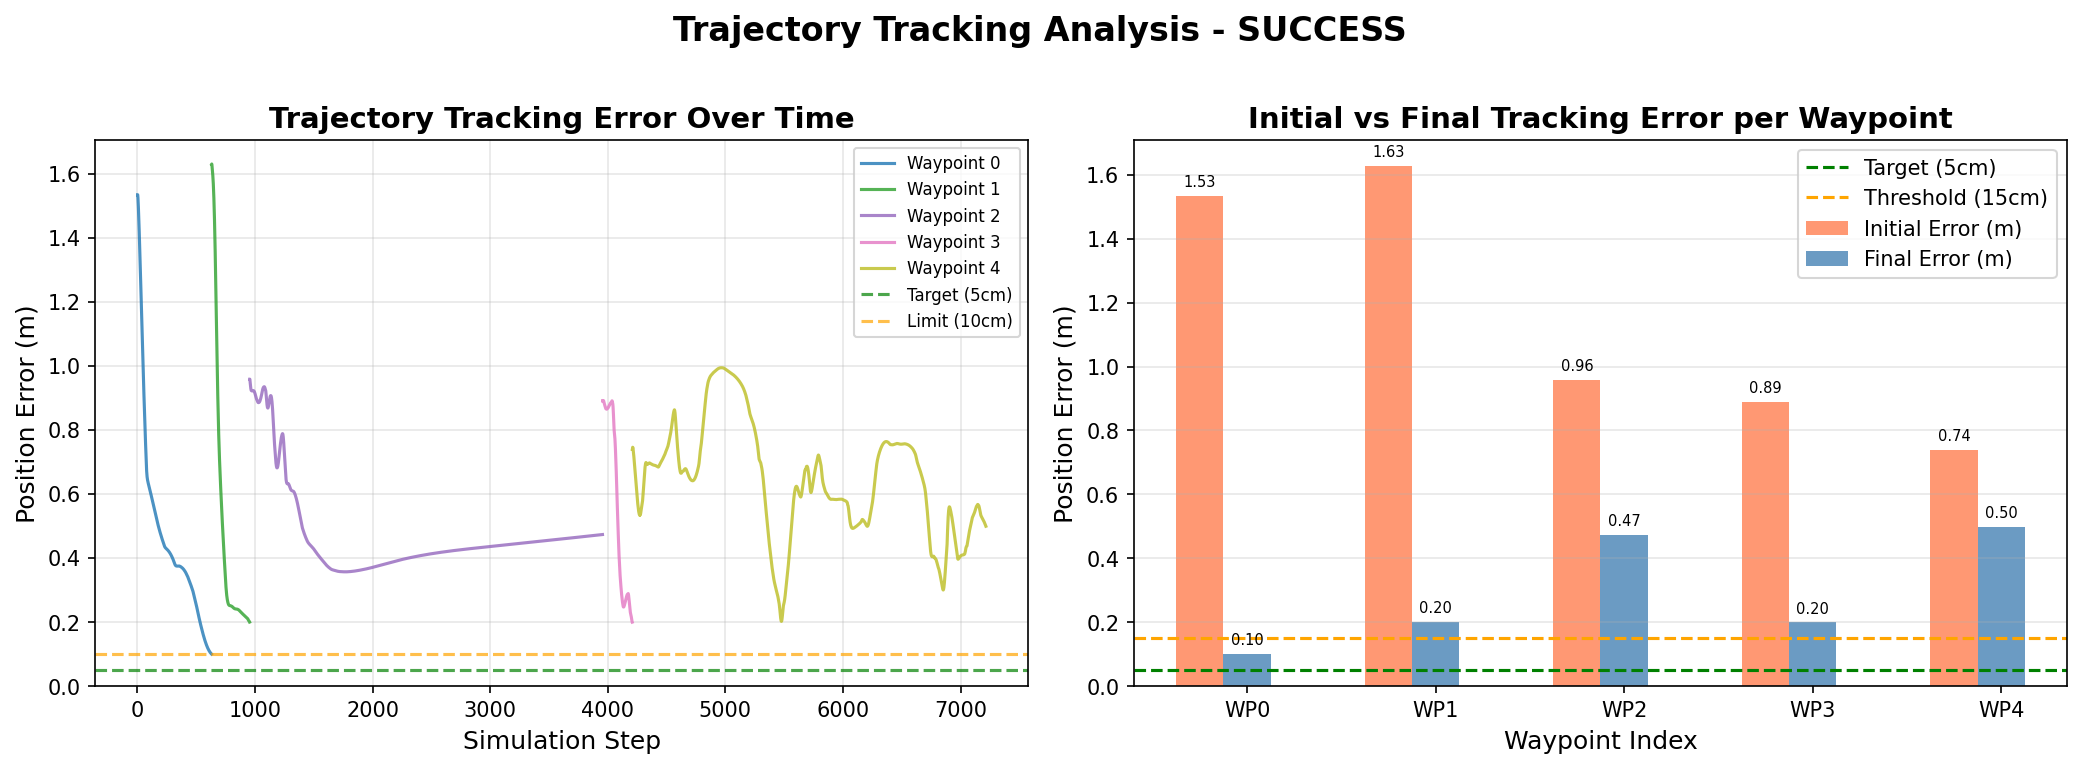
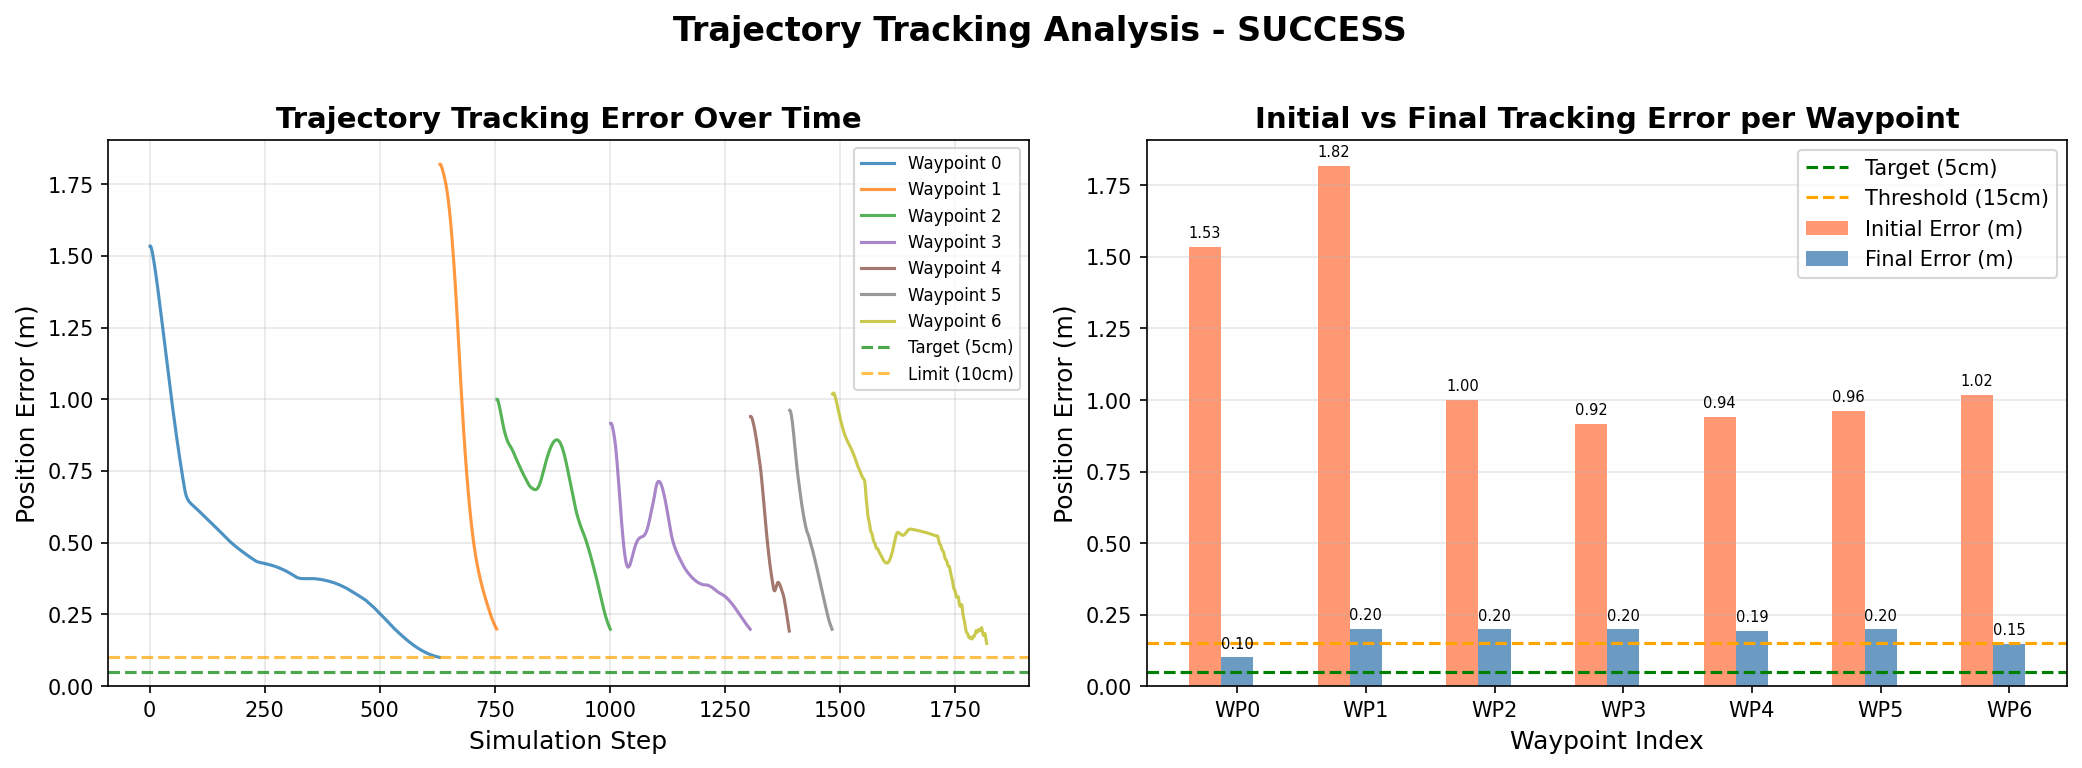
Forced acceptance branch - 100% completion with position errors
This branch uses forced acceptance to ensure trajectory completion:
- 180° recovery strategy rotates joint1 when stuck
- Forced acceptance after 3000 steps if error < 50cm
- Recovery forced acceptance after 2 attempts if error < 60cm
- Timeout forced acceptance after 6000 steps if error < 70cm

Test Results (10 runs):
- Success Rate: 10/10 (100%)
- Runs needing recovery: 7/10 (70%)
- Total forced acceptances: 9
- Average forced acceptance error: ~0.45m

WARNING: Forced acceptance is a workaround, not a real solution.
Robot may be 50cm+ away from target waypoints.
Success metrics are misleading.

diff --git a/Project1/COPILOT_CONTEXT.md b/Project1/COPILOT_CONTEXT.md
@@ -4,7 +4,7 @@
 Dual-arm wall-crawler robot simulation for ISS module traversal using MuJoCo physics engine.
 The robot alternates between two KUKA iiwa14 arms with Robotiq 2F85 grippers to traverse walls.
 
-## Current State (December 3, 2025)
+## Current State (December 4, 2025) - Branch: DualArmDev-forced-acceptance
 
 ### ⚠ CRITICAL ISSUE - FORCED ACCEPTANCE IS FAKE COMPLETION
 
@@ -21,7 +21,15 @@ The current "forced acceptance" mechanism is a WORKAROUND, not a real solution:
 1. Robot may be 50cm+ away from where it should be anchored
 2. Subsequent waypoints become harder to reach (error compounds)
 3. The screw task at the end happens at wrong location
-4. Success metrics are misleading - "60% success" doesn't mean 60% correct trajectories
+4. Success metrics are misleading - "100% success" doesn't mean 100% correct trajectories
+
+### Latest Test Results (10 runs on Dec 4, 2025)
+```
+Success Rate: 10/10 (100%) - BUT WITH FORCED ACCEPTANCES
+Runs needing recovery: 7/10 (70%)
+Total forced acceptances: 9
+Average forced acceptance error: ~0.45m (range: 0.33m - 0.60m)
+```
 
 ### Current Forced Acceptance Thresholds (THESE ARE TOO LENIENT)
 ```python
